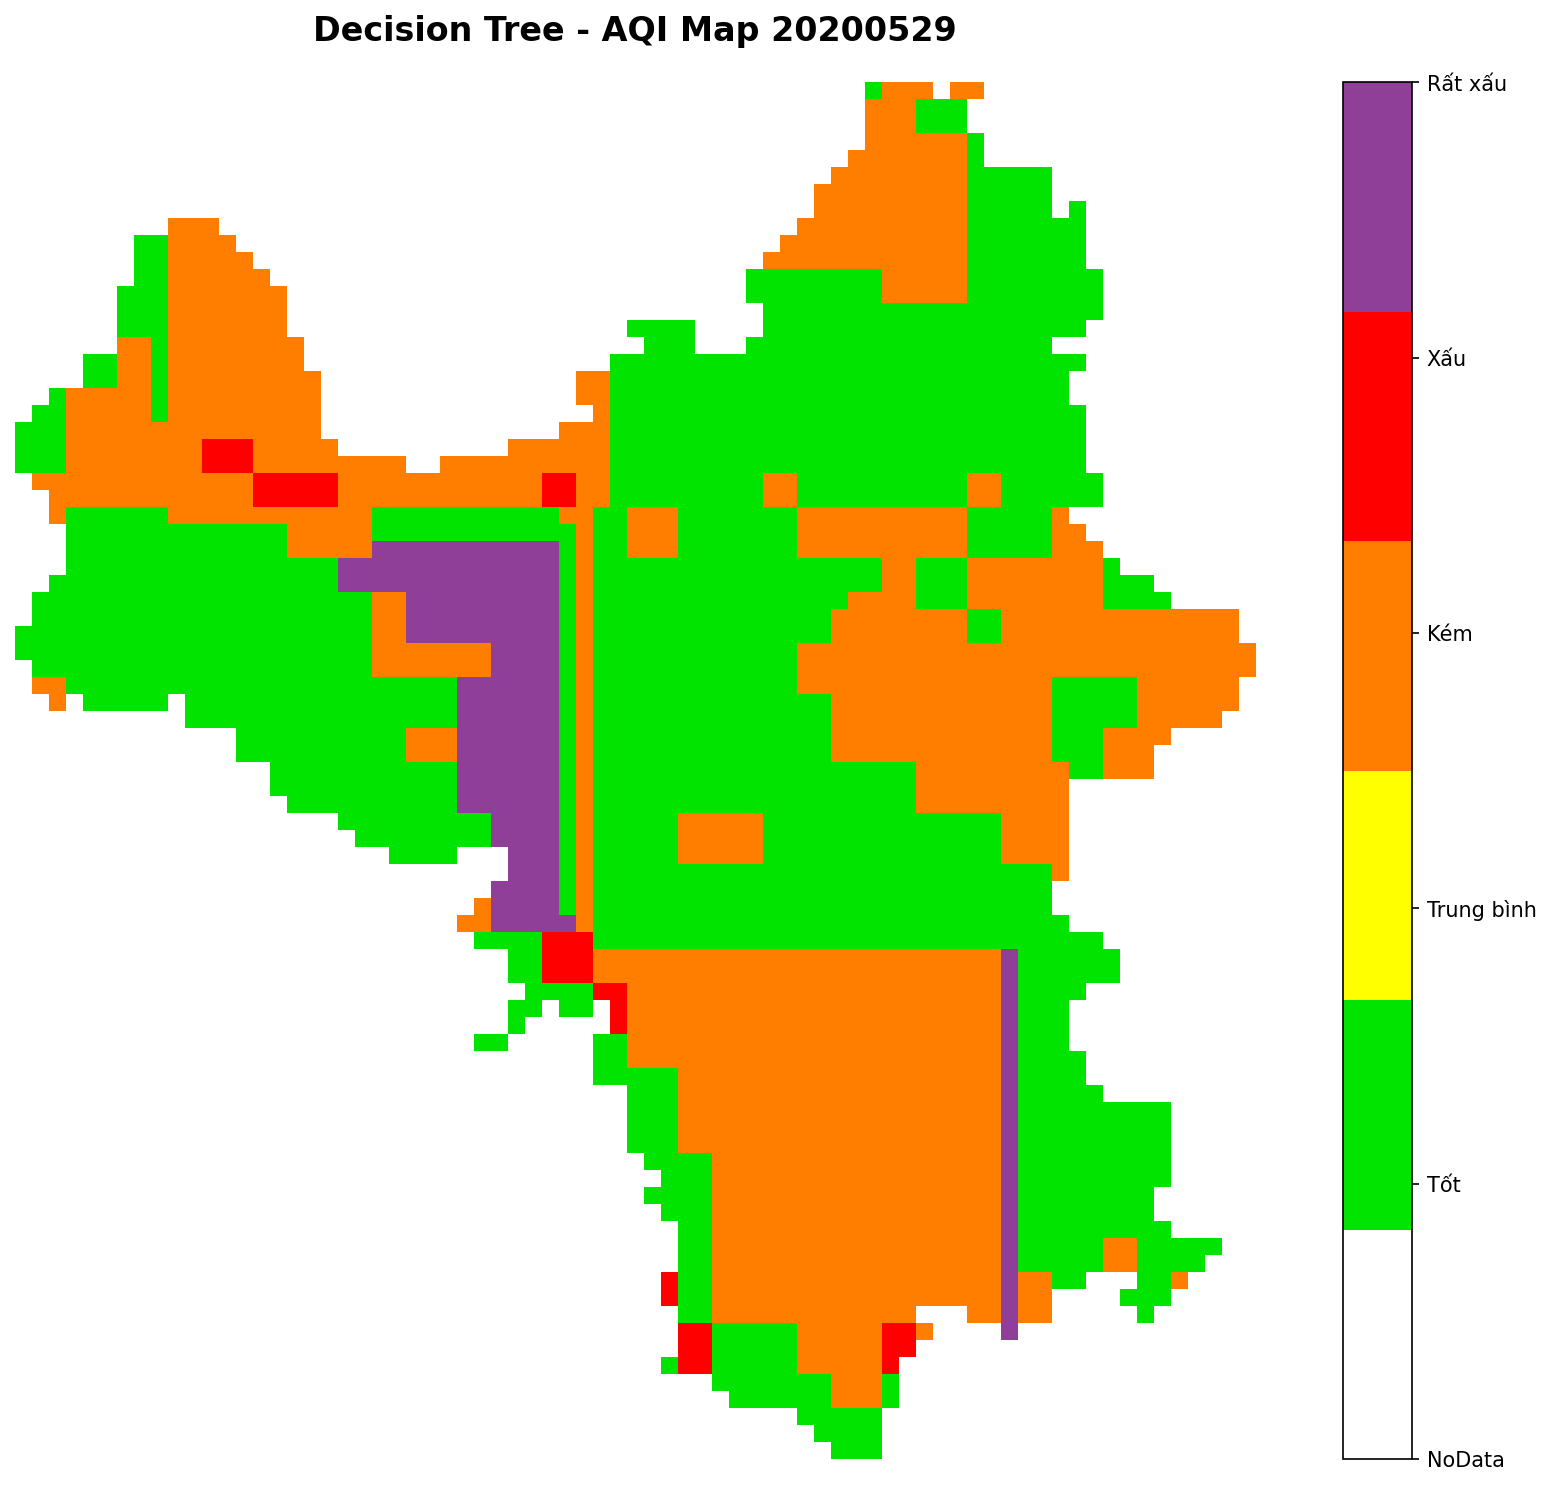
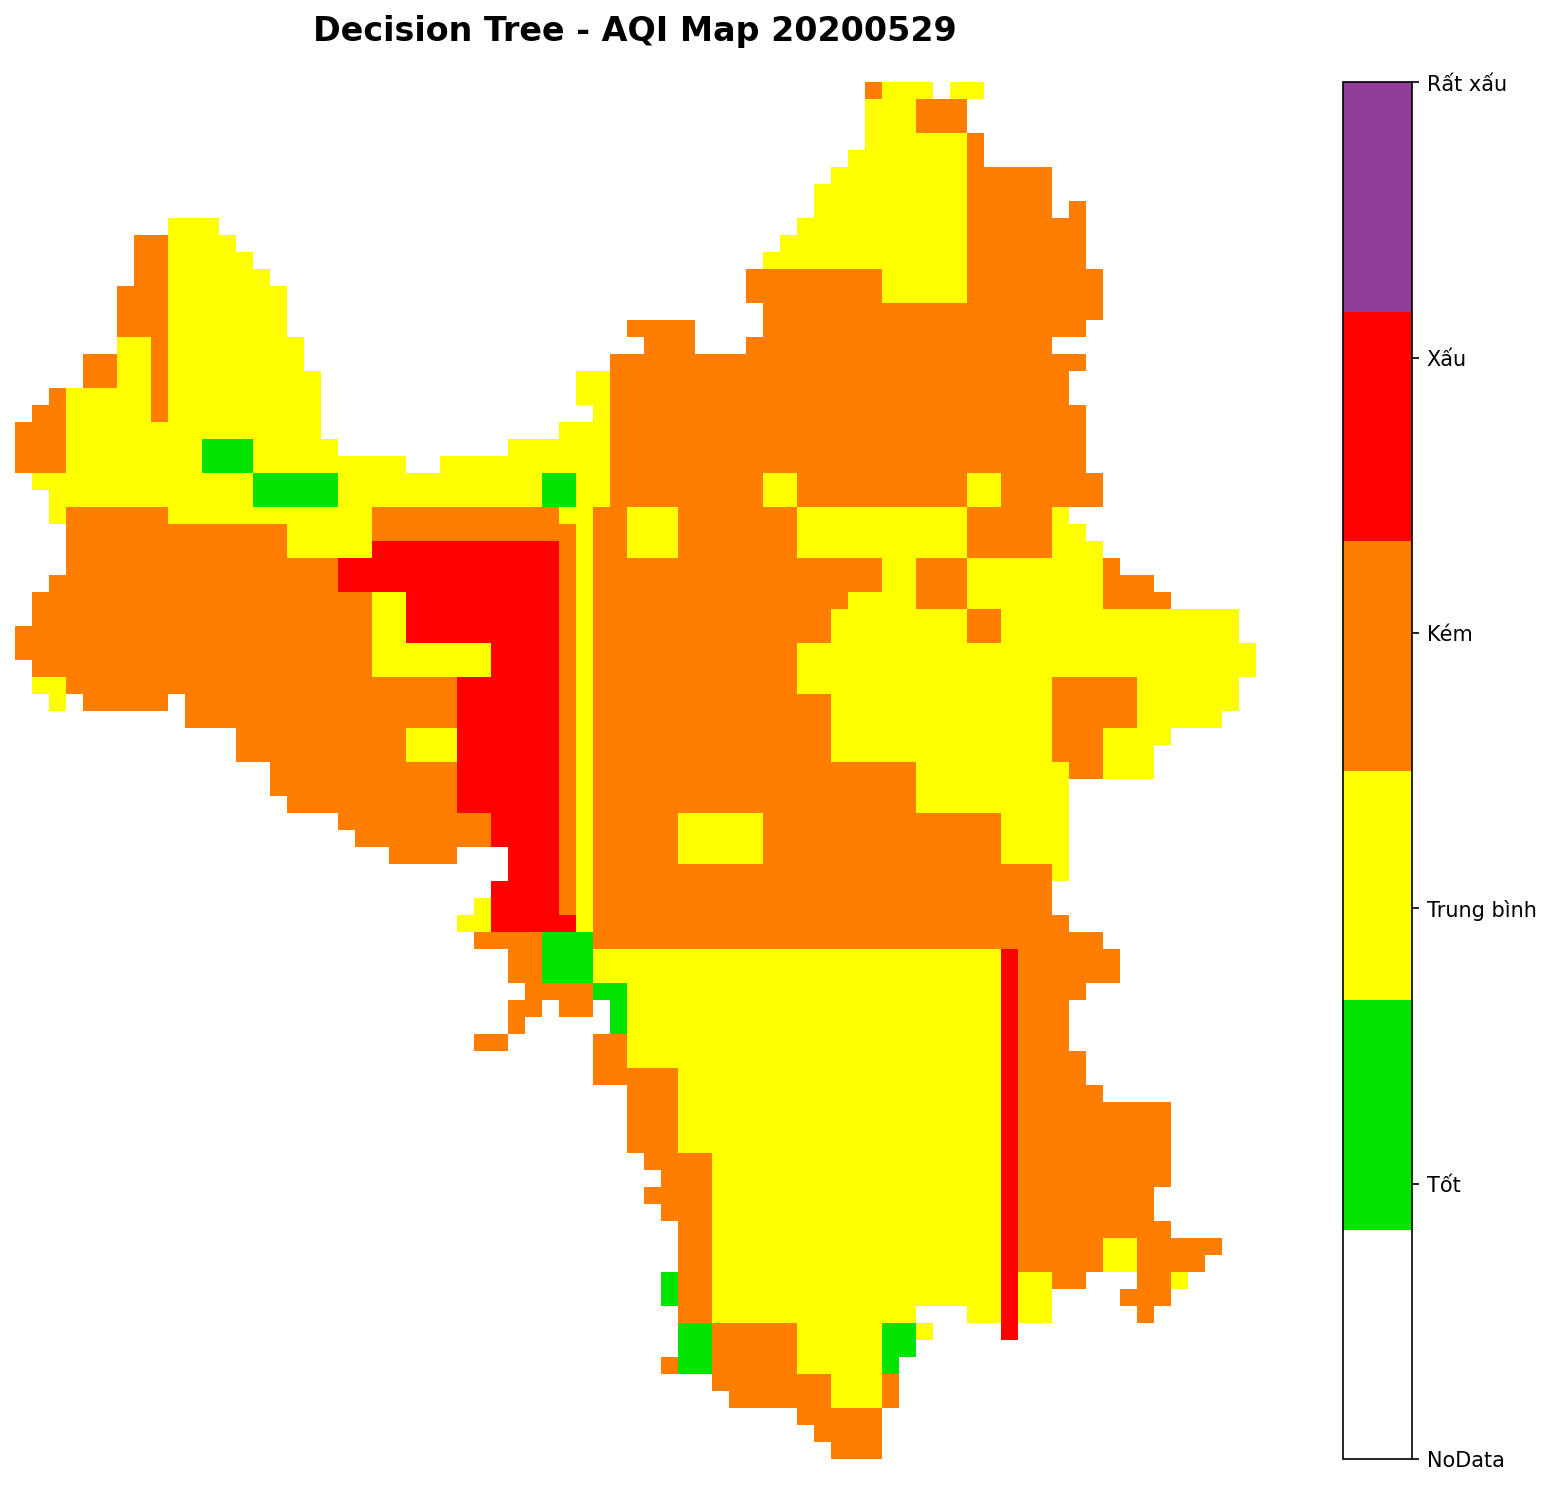
Fix AQI map legends: display logical order (Tốt → Trung bình → Kém → Xấu → Rất xấu)

diff --git a/decision_tree_analysis/decision_tree_model.py b/decision_tree_analysis/decision_tree_model.py
@@ -460,22 +460,30 @@ def process_tif_to_predictions(model, scaler, label_encoder, date, feature_maps_
     predictions_2d = predictions.reshape(shape)
     
     # Label encoder sắp xếp theo alphabet: ['Kém', 'Rất xấu', 'Trung bình', 'Tốt', 'Xấu']
+    # Map từ encoded value sang logical order để hiển thị đúng trên colorbar
+    # Encoded: 0=Kém, 1=Rất xấu, 2=Trung bình, 3=Tốt, 4=Xấu
+    # Remap to: -1=NoData, 0=Tốt, 1=Trung bình, 2=Kém, 3=Xấu, 4=Rất xấu
+    
+    # Create remapped predictions for visualization
+    remap_dict = {-1: -1, 3: 0, 2: 1, 0: 2, 4: 3, 1: 4}  # old_value: new_value
+    predictions_remapped = np.vectorize(remap_dict.get)(predictions_2d)
+    
     colors = [
         '#FFFFFF',  # -1: NoData
-        '#FF7E00',  # 0: Kém
-        '#8F3F97',  # 1: Rất xấu
-        '#FFFF00',  # 2: Trung bình
-        '#00E400',  # 3: Tốt
-        '#FF0000',  # 4: Xấu
+        '#00E400',  # 0: Tốt (green)
+        '#FFFF00',  # 1: Trung bình (yellow)
+        '#FF7E00',  # 2: Kém (orange)
+        '#FF0000',  # 3: Xấu (red)
+        '#8F3F97',  # 4: Rất xấu (purple)
     ]
     
     cmap = ListedColormap(colors)
     
     fig, ax = plt.subplots(figsize=(12, 10))
-    im = ax.imshow(predictions_2d, cmap=cmap, vmin=-1, vmax=4, interpolation='nearest')
+    im = ax.imshow(predictions_remapped, cmap=cmap, vmin=-1, vmax=4, interpolation='nearest')
     
     cbar = plt.colorbar(im, ax=ax, ticks=[-1, 0, 1, 2, 3, 4])
-    cbar.ax.set_yticklabels(['NoData', 'Kém', 'Rất xấu', 'Trung bình', 'Tốt', 'Xấu'])
+    cbar.ax.set_yticklabels(['NoData', 'Tốt', 'Trung bình', 'Kém', 'Xấu', 'Rất xấu'])
     
     ax.set_title(f'Decision Tree - AQI Map {date}', fontsize=16, fontweight='bold', pad=20)
     ax.axis('off')
